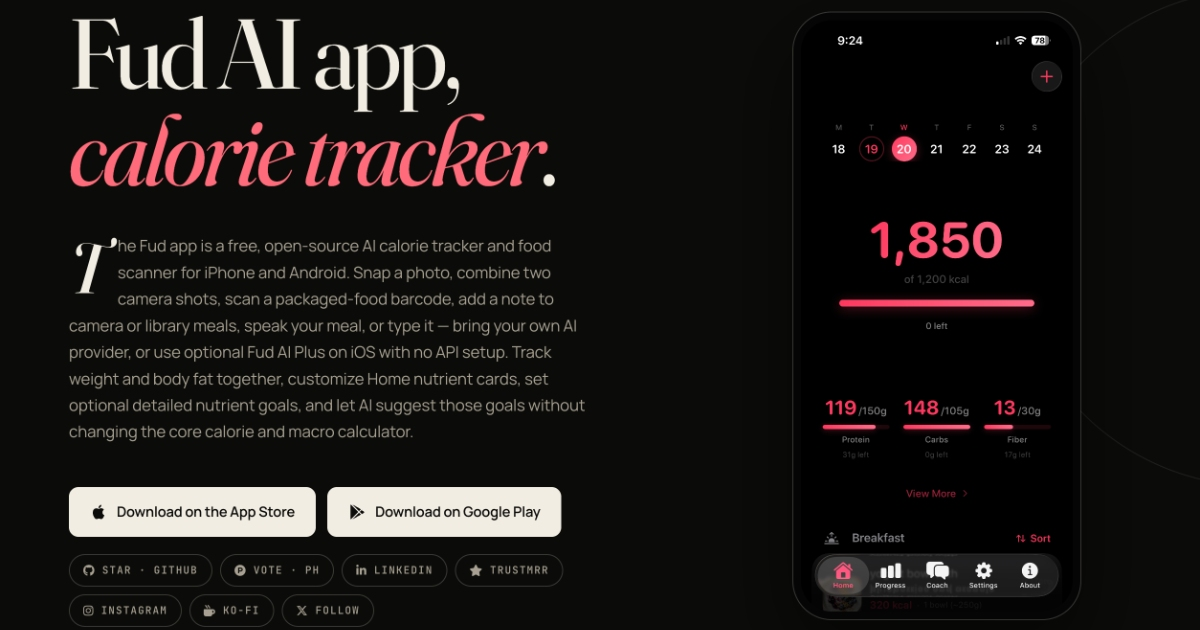
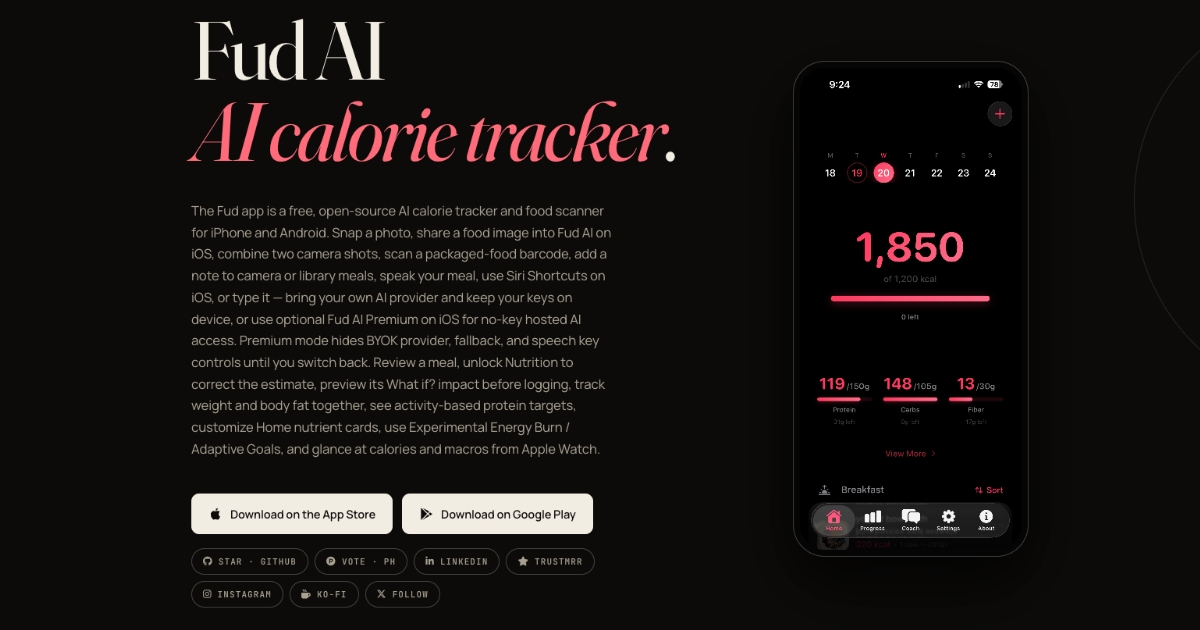
Update website Open Graph image

diff --git a/web/index.html b/web/index.html
@@ -19,8 +19,8 @@
 <meta property="og:url" content="https://www.fud-ai.app/">
 <meta property="og:title" content="Fud AI App — AI Calorie Tracker &amp; Food Scanner">
 <meta property="og:description" content="Log meals by photo, iOS Share Extension, notes, voice, Siri Shortcuts, text, or manual entry. Edit nutrition before logging, preview meal what-if impact, and track macros, body fat, Apple Watch, and Health sync without a Fud AI account.">
-<meta property="og:image" content="https://www.fud-ai.app/assets/opengraph.jpg?v=1">
-<meta property="og:image:secure_url" content="https://www.fud-ai.app/assets/opengraph.jpg?v=1">
+<meta property="og:image" content="https://www.fud-ai.app/assets/opengraph.jpg?v=20260605">
+<meta property="og:image:secure_url" content="https://www.fud-ai.app/assets/opengraph.jpg?v=20260605">
 <meta property="og:image:type" content="image/jpeg">
 <meta property="og:image:width" content="1200">
 <meta property="og:image:height" content="630">
@@ -32,7 +32,7 @@
 <meta name="twitter:url" content="https://www.fud-ai.app/">
 <meta name="twitter:title" content="Fud AI App — AI Calorie Tracker &amp; Food Scanner">
 <meta name="twitter:description" content="Log meals by photo, iOS Share Extension, notes, voice, Siri Shortcuts, text, or manual entry. Edit nutrition before logging, preview meal what-if impact, and track macros, body fat, Apple Watch, and Health sync without a Fud AI account.">
-<meta name="twitter:image" content="https://www.fud-ai.app/assets/opengraph.jpg?v=1">
+<meta name="twitter:image" content="https://www.fud-ai.app/assets/opengraph.jpg?v=20260605">
 <meta name="twitter:image:alt" content="Fud AI — AI calorie tracker for iOS and Android. Snap, speak, or type your meal.">
 <link rel="icon" href="assets/calorie logo transparent.png">
 <link rel="preload" as="image" href="assets/screenshots/home.png" fetchpriority="high">

diff --git a/web/privacy.html b/web/privacy.html
@@ -17,8 +17,8 @@
 <meta property="og:url" content="https://www.fud-ai.app/privacy.html">
 <meta property="og:title" content="Privacy Policy — Fud AI Calorie Tracker for iOS &amp; Android">
 <meta property="og:description" content="How Fud AI handles photos, voice, Siri Shortcuts, review nutrition edits, meal what-if suggestions, health data, API keys, and local app data.">
-<meta property="og:image" content="https://www.fud-ai.app/assets/opengraph.jpg?v=1">
-<meta property="og:image:secure_url" content="https://www.fud-ai.app/assets/opengraph.jpg?v=1">
+<meta property="og:image" content="https://www.fud-ai.app/assets/opengraph.jpg?v=20260605">
+<meta property="og:image:secure_url" content="https://www.fud-ai.app/assets/opengraph.jpg?v=20260605">
 <meta property="og:image:type" content="image/jpeg">
 <meta property="og:image:width" content="1200">
 <meta property="og:image:height" content="630">
@@ -30,7 +30,7 @@
 <meta name="twitter:url" content="https://www.fud-ai.app/privacy.html">
 <meta name="twitter:title" content="Privacy Policy — Fud AI Calorie Tracker for iOS &amp; Android">
 <meta name="twitter:description" content="How Fud AI handles photos, voice, Siri Shortcuts, review nutrition edits, meal what-if suggestions, health data, API keys, and local app data.">
-<meta name="twitter:image" content="https://www.fud-ai.app/assets/opengraph.jpg?v=1">
+<meta name="twitter:image" content="https://www.fud-ai.app/assets/opengraph.jpg?v=20260605">
 <meta name="twitter:image:alt" content="Fud AI — AI calorie tracker for iOS and Android. Snap, speak, or type your meal.">
 <link rel="icon" href="assets/calorie logo transparent.png">
 <link rel="preconnect" href="https://fonts.googleapis.com">

diff --git a/web/terms.html b/web/terms.html
@@ -17,8 +17,8 @@
 <meta property="og:url" content="https://www.fud-ai.app/terms.html">
 <meta property="og:title" content="Terms of Service — Fud AI Calorie Tracker for iOS &amp; Android">
 <meta property="og:description" content="Terms for Fud AI, including AI estimates, Siri Shortcuts, review nutrition edits, meal what-if suggestions, health disclaimers, BYOK providers, and open-source licensing.">
-<meta property="og:image" content="https://www.fud-ai.app/assets/opengraph.jpg?v=1">
-<meta property="og:image:secure_url" content="https://www.fud-ai.app/assets/opengraph.jpg?v=1">
+<meta property="og:image" content="https://www.fud-ai.app/assets/opengraph.jpg?v=20260605">
+<meta property="og:image:secure_url" content="https://www.fud-ai.app/assets/opengraph.jpg?v=20260605">
 <meta property="og:image:type" content="image/jpeg">
 <meta property="og:image:width" content="1200">
 <meta property="og:image:height" content="630">
@@ -30,7 +30,7 @@
 <meta name="twitter:url" content="https://www.fud-ai.app/terms.html">
 <meta name="twitter:title" content="Terms of Service — Fud AI Calorie Tracker for iOS &amp; Android">
 <meta name="twitter:description" content="Terms for Fud AI, including AI estimates, Siri Shortcuts, review nutrition edits, meal what-if suggestions, health disclaimers, BYOK providers, and open-source licensing.">
-<meta name="twitter:image" content="https://www.fud-ai.app/assets/opengraph.jpg?v=1">
+<meta name="twitter:image" content="https://www.fud-ai.app/assets/opengraph.jpg?v=20260605">
 <meta name="twitter:image:alt" content="Fud AI — AI calorie tracker for iOS and Android. Snap, speak, or type your meal.">
 <link rel="icon" href="assets/calorie logo transparent.png">
 <link rel="preconnect" href="https://fonts.googleapis.com">